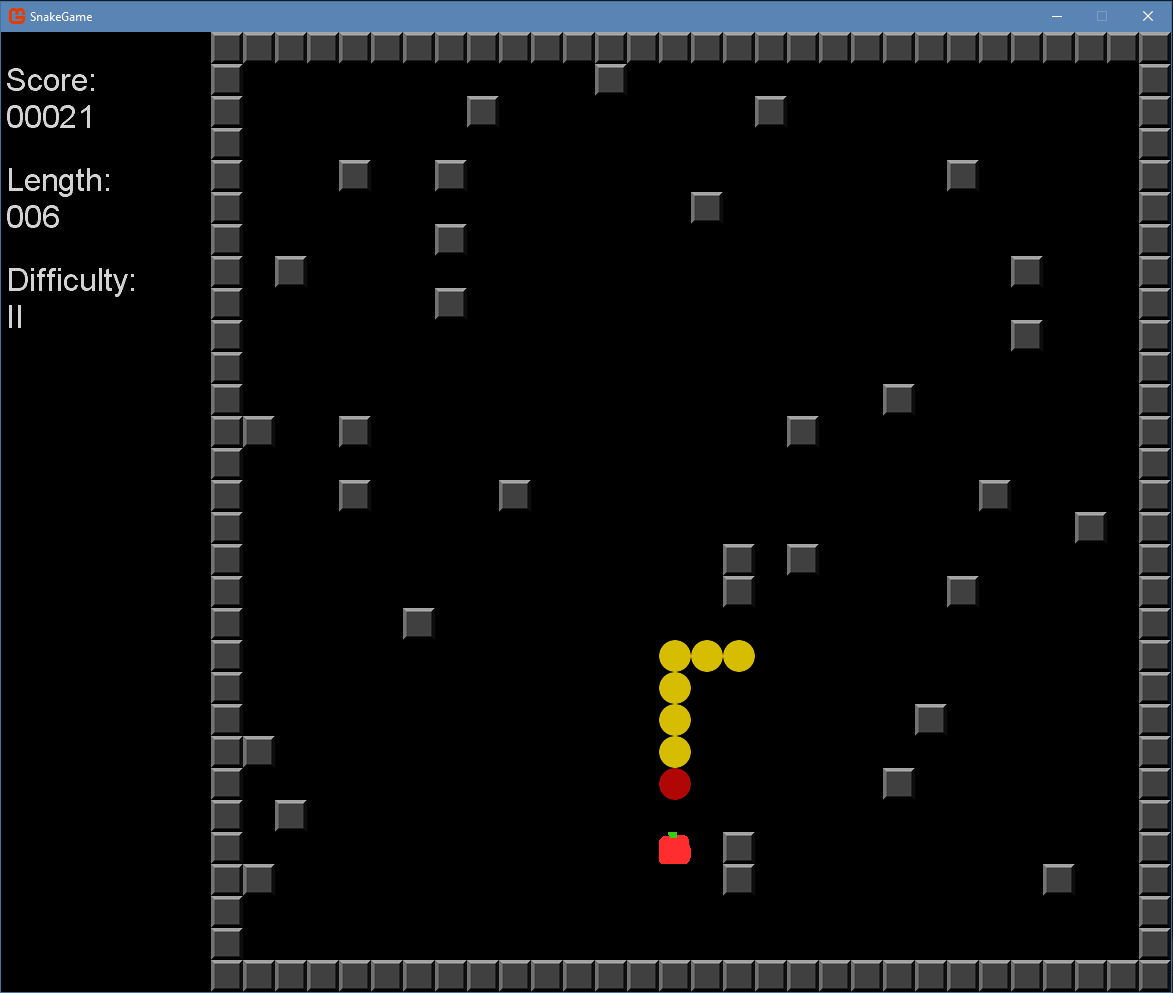
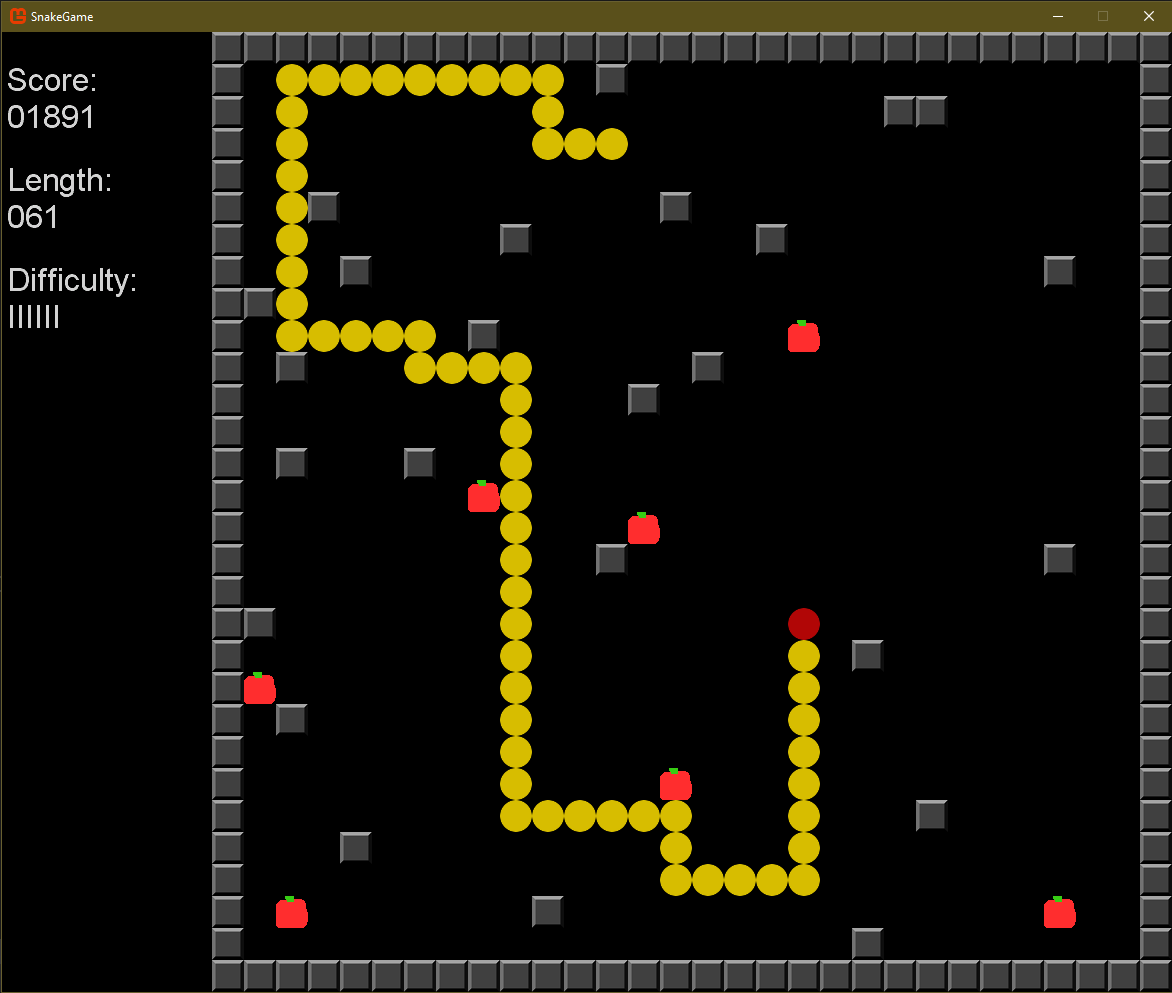
Version 1.1
Added a new feature, there can now be multiple apples on the play field.
The game starts with two and the number of apples increases as difficulty level increases.

diff --git a/Game1.cs b/Game1.cs
@@ -53,9 +53,13 @@ namespace SnakeGame
         int[] snakeXbuffer = new int[501];
         int[] snakeYbuffer = new int[501];
 
-        int snakeX, snakeY, snakeLength;
-        int appleX, appleY;
-        int score;
+        int score, snakeX, snakeY, snakeLength;
+
+        //Arrays to store apple positions (there can be multiple apples at the same time)
+        int[] appleX = new int[10];
+        int[] appleY = new int[10];
+
+        //Difficulty level in string format to show on screen
         string difficulty;
 
         //Random number generator
@@ -139,6 +143,13 @@ namespace SnakeGame
                 snakeYbuffer[i] = 0;
             }
 
+            //Reset apple array. -1 means no apple.
+            for (int i = 0; i < 10; i++)
+            {
+                appleX[i] = -1;
+                appleY[i] = -1;
+            }
+
             //Init timing system
             tickCount = 0;
             //Init game speed
@@ -155,7 +166,8 @@ namespace SnakeGame
 
             animationTimer = 0;
 
-            //Generate first apple
+            //Start game with two generated apples
+            generateApple();
             generateApple();
             
             //Start game
@@ -164,31 +176,81 @@ namespace SnakeGame
 
         }
 
-        //Spawn apple and make sure it is not inside wall
+        //Finds a free memory from apple array and inserts new apple coordinates to the array.
+        //Returns true if it was successful.
+        private bool insertApple(int newAppleX, int newAppleY)
+        {
+            for (int i = 0; i < 10; i++)
+            {
+                //Found free spot for apple, insert new apple to array and return true.
+                if (appleX[i] == -1 && appleY[i] == -1)
+                {
+                    appleX[i] = newAppleX;
+                    appleY[i] = newAppleY;
+                    return true;
+                }
+            }
+            //Array is full, there are already 10 apples on the playfield.
+            return false;
+        }
+
+        //Search array if apple exists in specific coordinates.
+        //Returns -1 if not found, otherwise returns the number of the memory place in array where it was found.
+        private int searchApple(int x, int y)
+        {
+            for (int i = 0; i < 10; i++)
+            {
+                if (appleX[i] == x && appleY[i] == y)
+                    return i;
+            }
+            return -1;   
+        }
+
+        //Removes the apple which number is passed as a parameter from the list.
+        private void removeApple(int n)
+        {
+            appleX[n] = -1;
+            appleY[n] = -1;
+        }
+
+        //Spawn apple and make sure it is not inside wall or another apple
         private void generateApple()
         {
+            int tempX = -1;
+            int tempY = -1;
             bool posOK = false;
+
             while (!posOK)
             {
                 //Position between 1-28 in playfield
-                appleX = getrandom.Next(0, 27) + 1;
-                appleY = getrandom.Next(0, 27) + 1;
-
+                tempX = getrandom.Next(0, 27) + 1;
+                tempY = getrandom.Next(0, 27) + 1;
+                
                 //Check that position is empty on the field (no wall)
-                if (playField[appleX, appleY] == 0)
+                if (playField[tempX, tempY] == 0)
                 {
                     //Check that apple is reachable (so that there is entry and exit point around apple)
-                    int wallCount = playField[appleX,(appleY - 1)] + playField[(appleX + 1), appleY] + playField[appleX,(appleY + 1)] + playField[(appleX - 1), appleY];
-                    // If OK, then exit loop
+                    int wallCount = playField[tempX,(tempY - 1)] + playField[(tempX + 1), tempY] + playField[tempX,(tempY + 1)] + playField[(tempX - 1), tempY];
                     if (wallCount <= 2)
-                        posOK = true;
+                        {
+                            //Check that there isn't apple already at that position. If no, then position is OK, exit loop.
+                            if (searchApple(tempX, tempY) == -1)
+                                posOK = true;
+                        }
+
+                            
                 }
             }
+            //Insert apple to array.
+            insertApple(tempX, tempY);
         }
 
-        //Update difficulty level based on score
+        //Update difficulty level based on score. If difficulty level increases, spawn a new apple.
+        //That way there will always be one more apple, since new one is always generated when one is eaten.
         private void updateDifficulty()
         {
+            float oldSpeed = gameSpeed;
+
             if (score >= 10 && score < 100)
             {
                 difficulty = "II";
@@ -214,6 +276,9 @@ namespace SnakeGame
                 difficulty = "IIIIII";
                 gameSpeed = 110;
             }
+
+            if (oldSpeed != gameSpeed)
+                generateApple();
         }
         
         /*Check collision for new position, return value:
@@ -224,21 +289,32 @@ namespace SnakeGame
         */
         private int collisionCheck(int[,] map, int x, int y)
         {
-            //Collision check with apple
-            if (x == appleX && y == appleY)
+            int t = searchApple(x, y);
+            if (t != -1)
+            {
+                removeApple(t);
                 return 3;
-
+            }
+            /*
+            //Collision check with apples
+            for (int i = 0; i < 10; i++)
+            {
+                if (appleX[i] == x && appleY[i] == y)
+                    return 3;
+            }
+            */
             //Collision check with worm tail
             for (int i = 0; i < snakeLength; i++)
             {
                 if (snakeX == snakeXbuffer[i] && snakeY == snakeYbuffer[i])
                     return 2;
             }
+
             //Collision check with wall
             if (map[x, y] == 1)
                 return 1;
 
-            //If we got here there were no collisions, return 0
+            //If we got here, there were no collisions, return 0
             return 0;
         }
 
@@ -255,10 +331,14 @@ namespace SnakeGame
             spriteBatch.Draw(snakehead, new Vector2(snakeX * spriteSize + leftOffset, snakeY * spriteSize), Color.White);
         }
 
-        //Draw apple
+        //Draw apples
         private void drawApple()
         {
-            spriteBatch.Draw(apple, new Vector2(appleX * spriteSize + leftOffset, appleY * spriteSize), Color.White);
+            for (int i = 0; i < 10; i++)
+            {
+                if (appleX[i] != -1 && appleY[i] != -1)
+                    spriteBatch.Draw(apple, new Vector2(appleX[i] * spriteSize + leftOffset, appleY[i] * spriteSize), Color.White);
+            }
         }
 
         //Draw playfield
